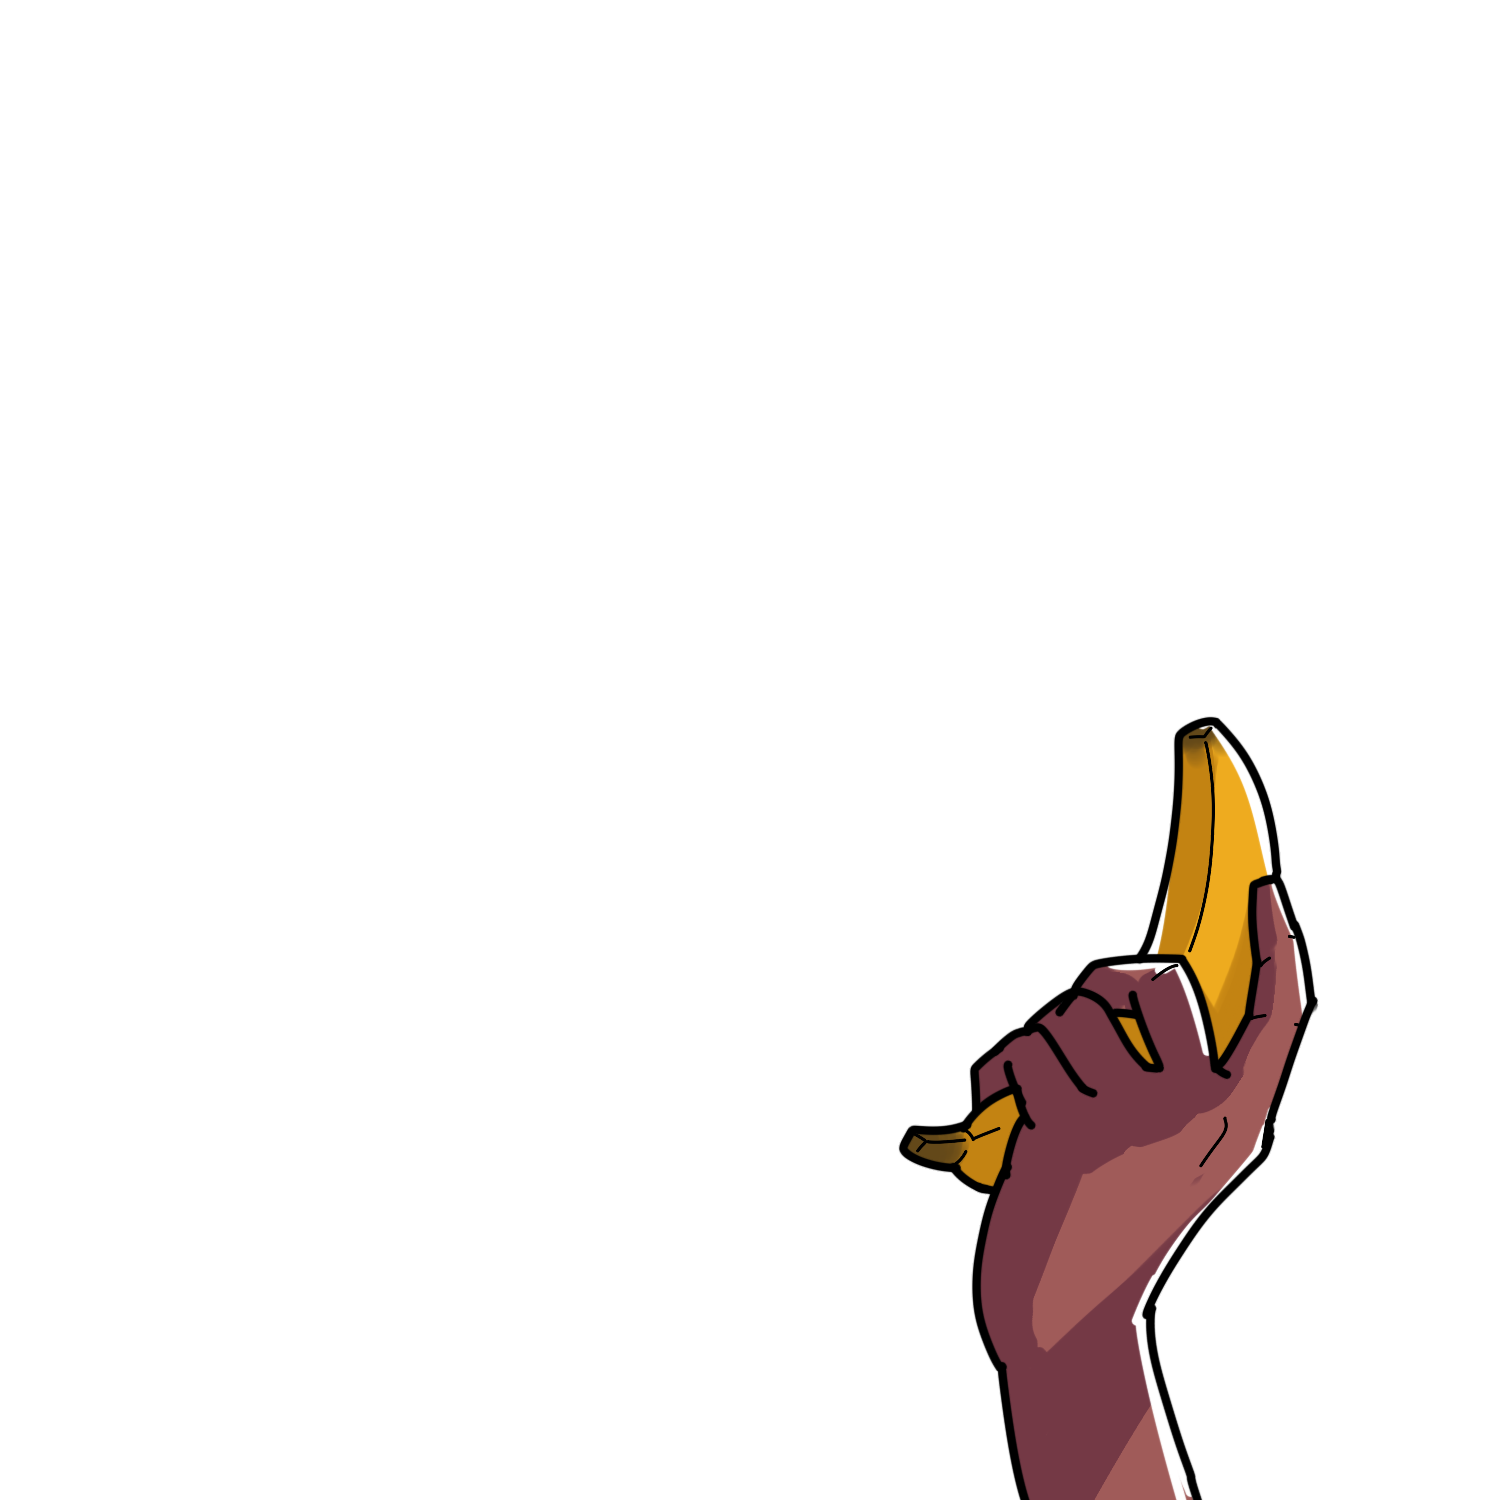
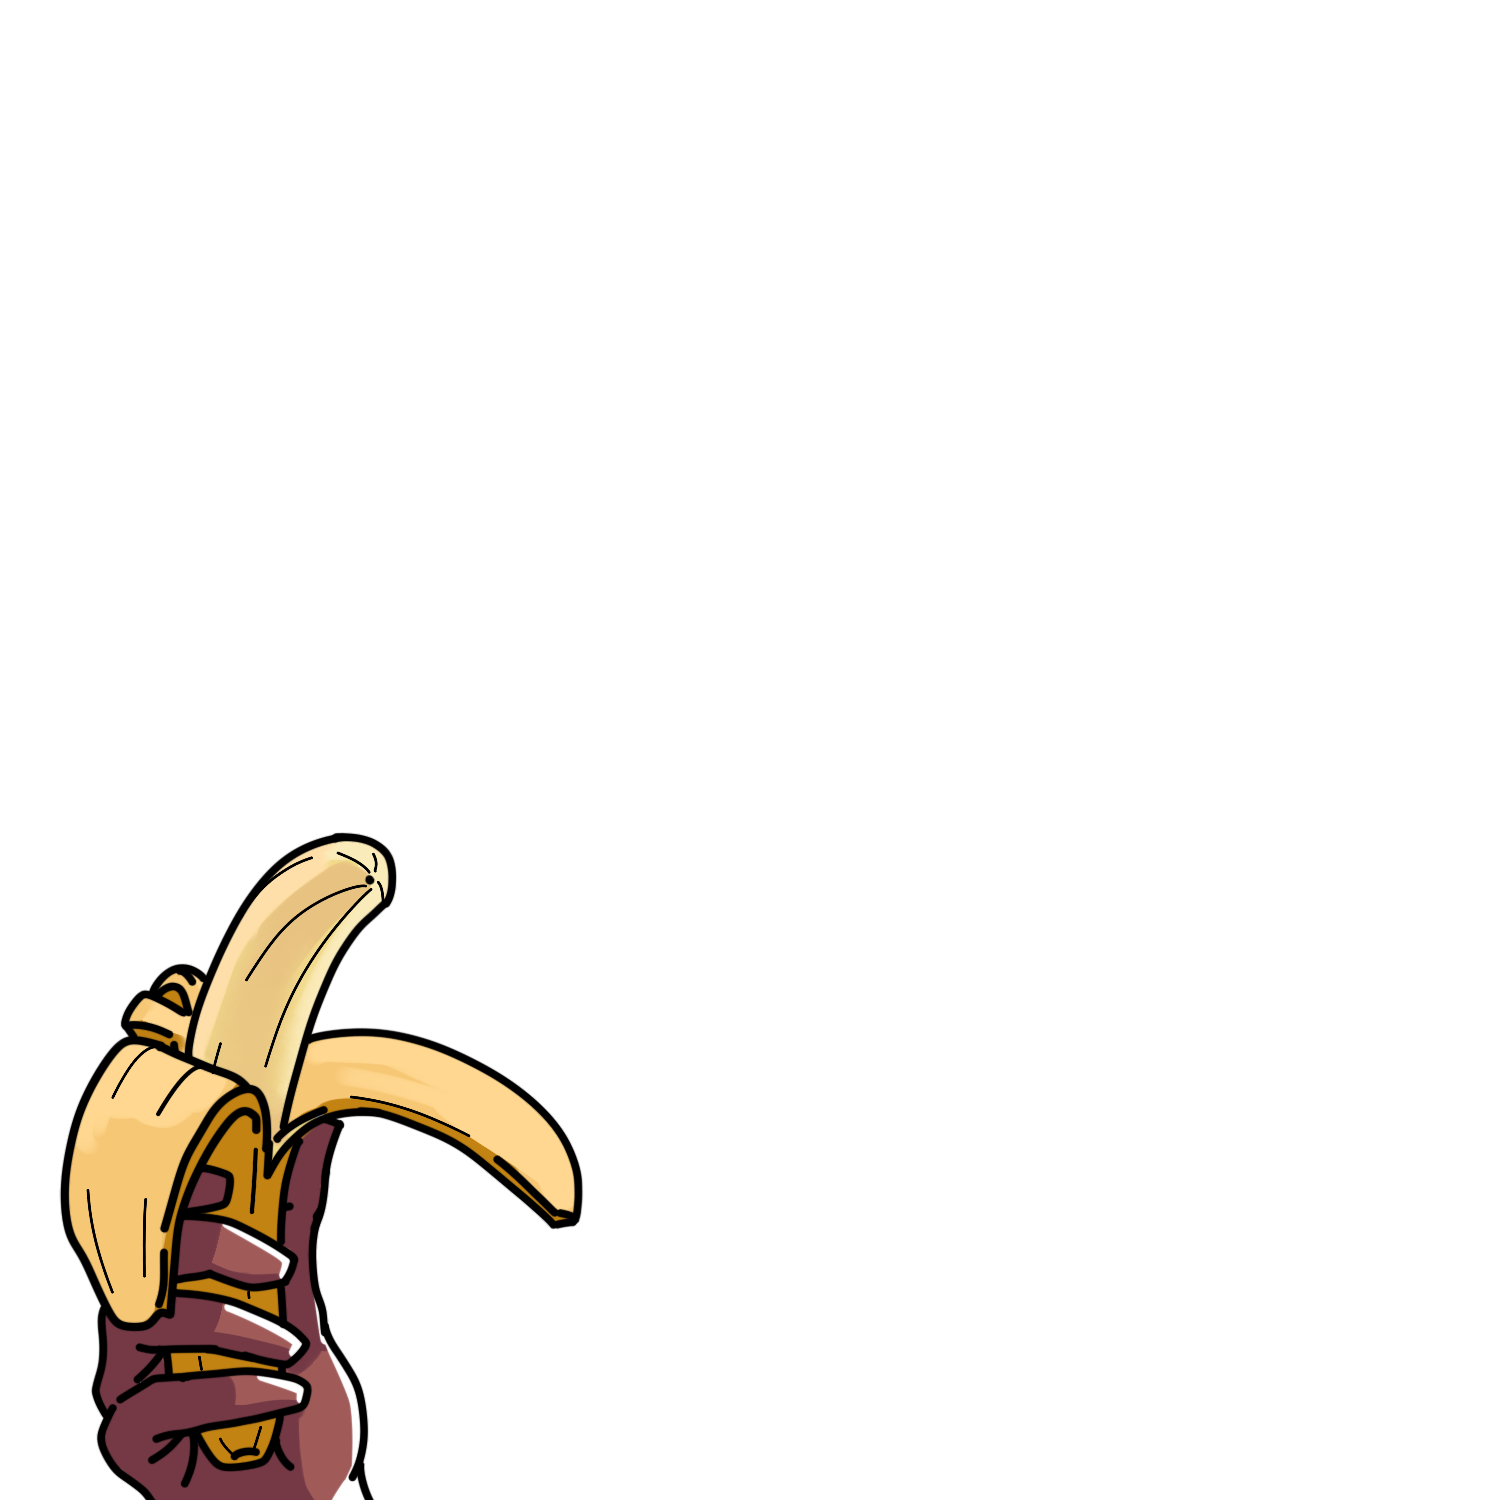
added links and new overlays

Changed region(s): [[0.0307, 0.552, 0.3987, 1.0], [0.5827, 0.46, 0.8893, 1.0]]

diff --git a/components/Footer.js b/components/Footer.js
@@ -22,7 +22,7 @@ const Footer = ({ justLeave, onMouseEnter, onMouseLeave, clickableEnter }) => {
             <Link href="https://forms.gle/Eeg8ysCeaXCNBbXJ9">
               {" "}
               <p> Bossphorus Editoral Partnership Form</p>
-                 <p> --depricated--</p>
+                 <p> --deprecated--</p>
             </Link>
          
           </div>
